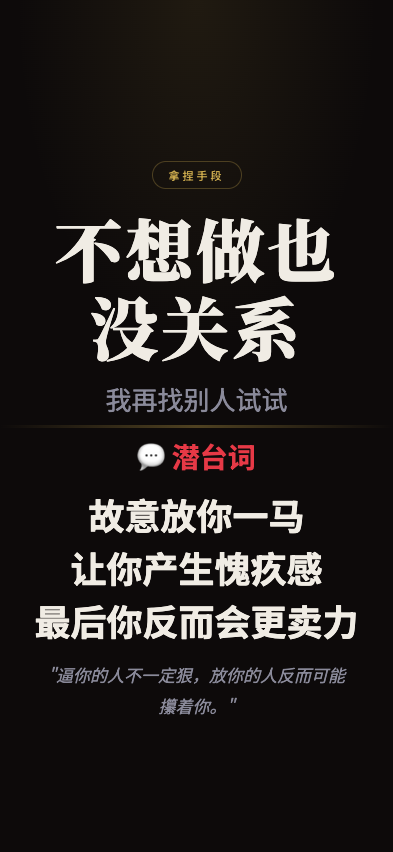
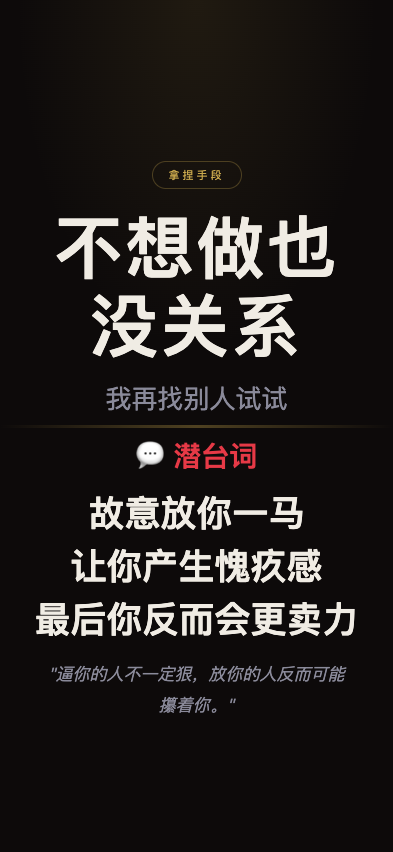
feat: 职场生存法则 screenshot - buxiangzuoyemeiguanxi

diff --git a/wuliao-tools/tools/biz-speak/scenes/buxiangzuoyemeiguanxi.html b/wuliao-tools/tools/biz-speak/scenes/buxiangzuoyemeiguanxi.html
@@ -1,0 +1,65 @@
+<!DOCTYPE html>
+<html lang="zh-CN">
+<head>
+<meta charset="UTF-8">
+<meta name="viewport" content="width=device-width, initial-scale=1.0, maximum-scale=1.0, user-scalable=no">
+<title>不想做也没关系</title>
+<link href="https://fonts.googleapis.com/css2?family=Noto+Serif+SC:wght@400;700;900&family=Noto+Sans+SC:wght@300;400;700&display=swap" rel="stylesheet">
+<style>
+  :root {
+    --bg: #0d0a0a;
+    --text: #f0ece4;
+    --text-dim: #8a8a9a;
+    --gold: #c9a84c;
+    --red: #e63946;
+  }
+
+  * { margin:0; padding:0; box-sizing:border-box; }
+  html, body { width:100%; height:100%; overflow:hidden; }
+  body {
+    font-family:"Noto Sans SC",sans-serif;
+    background:var(--bg);
+    color:var(--text);
+    display:flex; flex-direction:column;
+    height:100vh; height:100dvh;
+  }
+  body::before {
+    content:''; position:absolute; top:0; left:0; right:0; height:45%;
+    background:radial-gradient(ellipse at 50% 0%, rgba(201,168,76,0.1) 0%, transparent 65%);
+    pointer-events:none; z-index:0;
+  }
+
+  .top { flex:1; display:flex; flex-direction:column; align-items:center; justify-content:flex-end; padding:4px 28px 8px; position:relative; z-index:1; }
+  .tag { font-size:11px; letter-spacing:3px; color:var(--gold); border:1px solid rgba(201,168,76,0.3); padding:5px 16px; border-radius:50px; margin-bottom:20px; }
+
+  .main-title { font-family:'Noto Serif SC'; font-size:68px; font-weight:900; text-align:center; line-height:1.15; letter-spacing:3px; min-width:0; overflow-wrap:break-word; max-width:92%; }
+  .sub-title { font-size:26px; color:var(--text-dim); text-align:center; margin-top:14px; }
+
+  .divider { width:100%; height:3px; background:linear-gradient(90deg,transparent,var(--gold),transparent); opacity:0.35; flex-shrink:0; position:relative; z-index:1; }
+
+  .bottom { flex:1; display:flex; flex-direction:column; align-items:center; justify-content:flex-start; padding:8px 28px 4px; position:relative; z-index:1; }
+  .truth-label { font-size:28px; font-weight:700; color:var(--red); display:flex; align-items:center; gap:10px; margin-bottom:16px; }
+  .truth-lines { display:flex; flex-direction:column; align-items:center; gap:10px; }
+  .truth-line { font-size:36px; font-weight:700; color:var(--text); text-align:center; line-height:1.2; }
+
+  .quote { font-size:17px; color:var(--text-dim); font-style:italic; text-align:center; line-height:1.8; margin-top:18px; padding:0 12px; }
+</style>
+</head>
+<body>
+  <div class="top">
+    <div class="tag">拿捏手段</div>
+    <div class="main-title">不想做也没关系</div>
+    <div class="sub-title">我再找别人试试</div>
+  </div>
+  <div class="divider"></div>
+  <div class="bottom">
+    <div class="truth-label">💬 潜台词</div>
+    <div class="truth-lines">
+      <div class="truth-line">故意放你一马</div>
+      <div class="truth-line">让你产生愧疚感</div>
+      <div class="truth-line">最后你反而会更卖力</div>
+    </div>
+    <div class="quote">"逼你的人不一定狠，放你的人反而可能攥着你。"</div>
+  </div>
+</body>
+</html>
